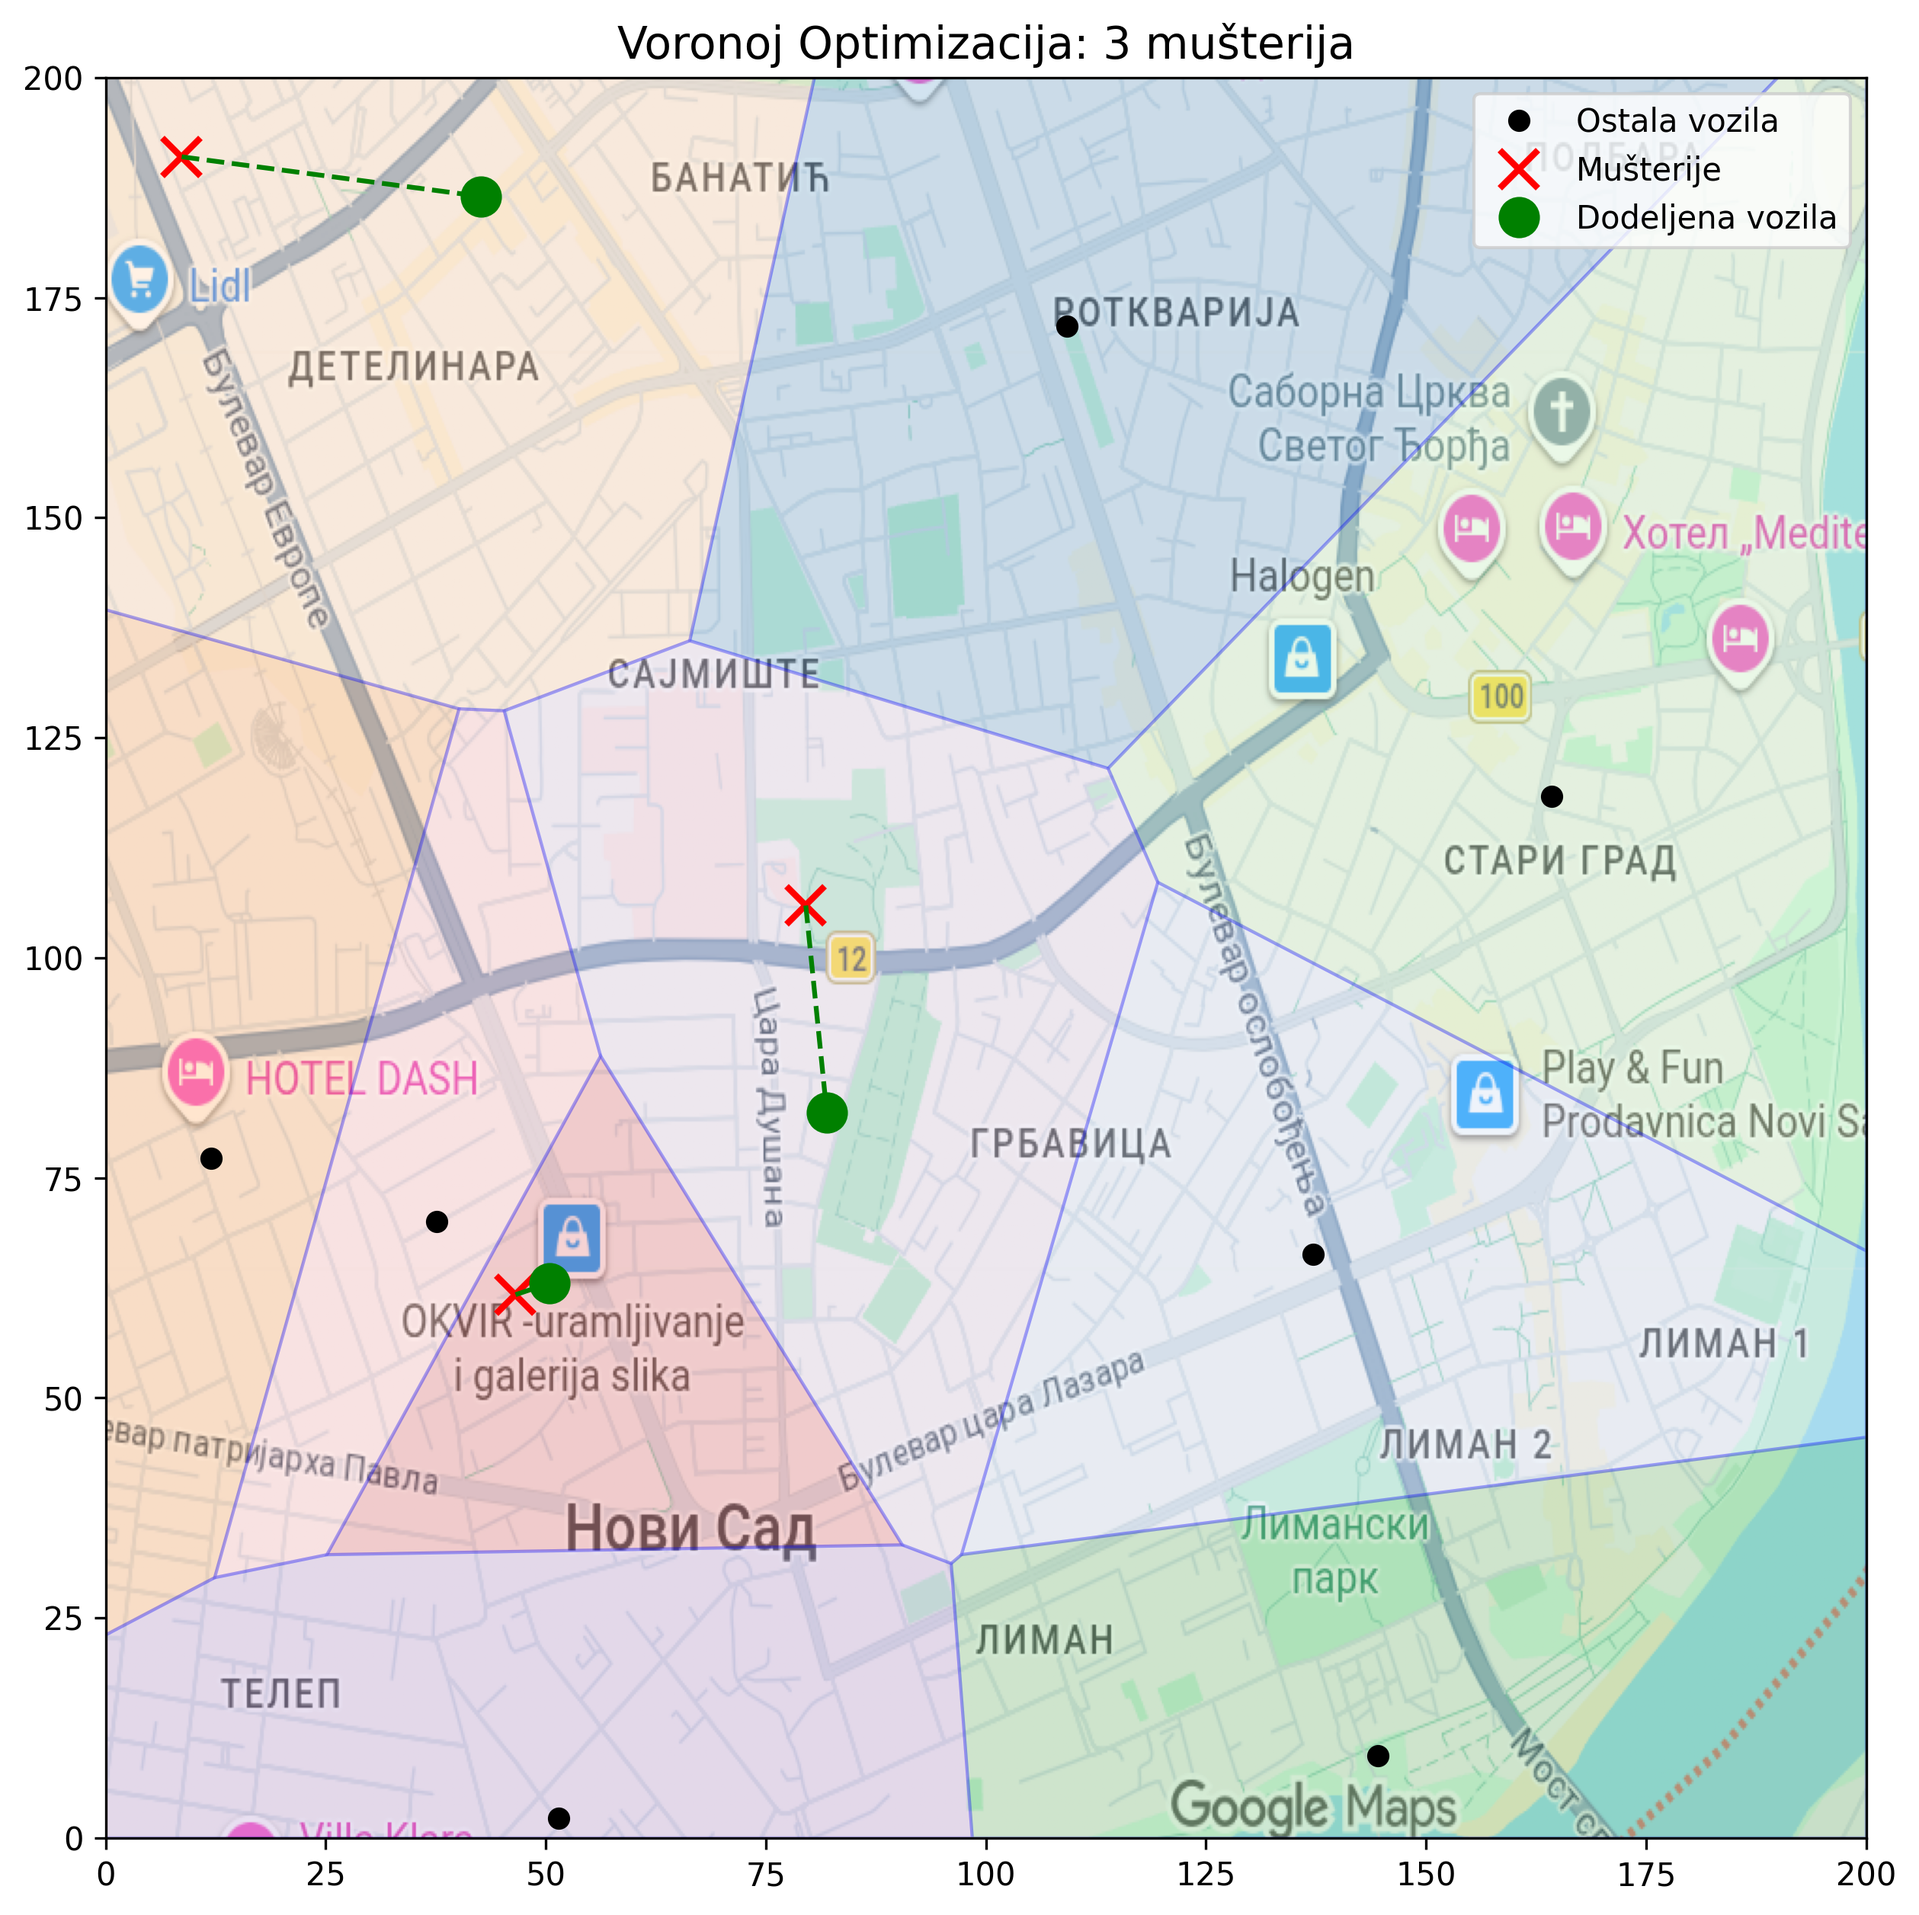
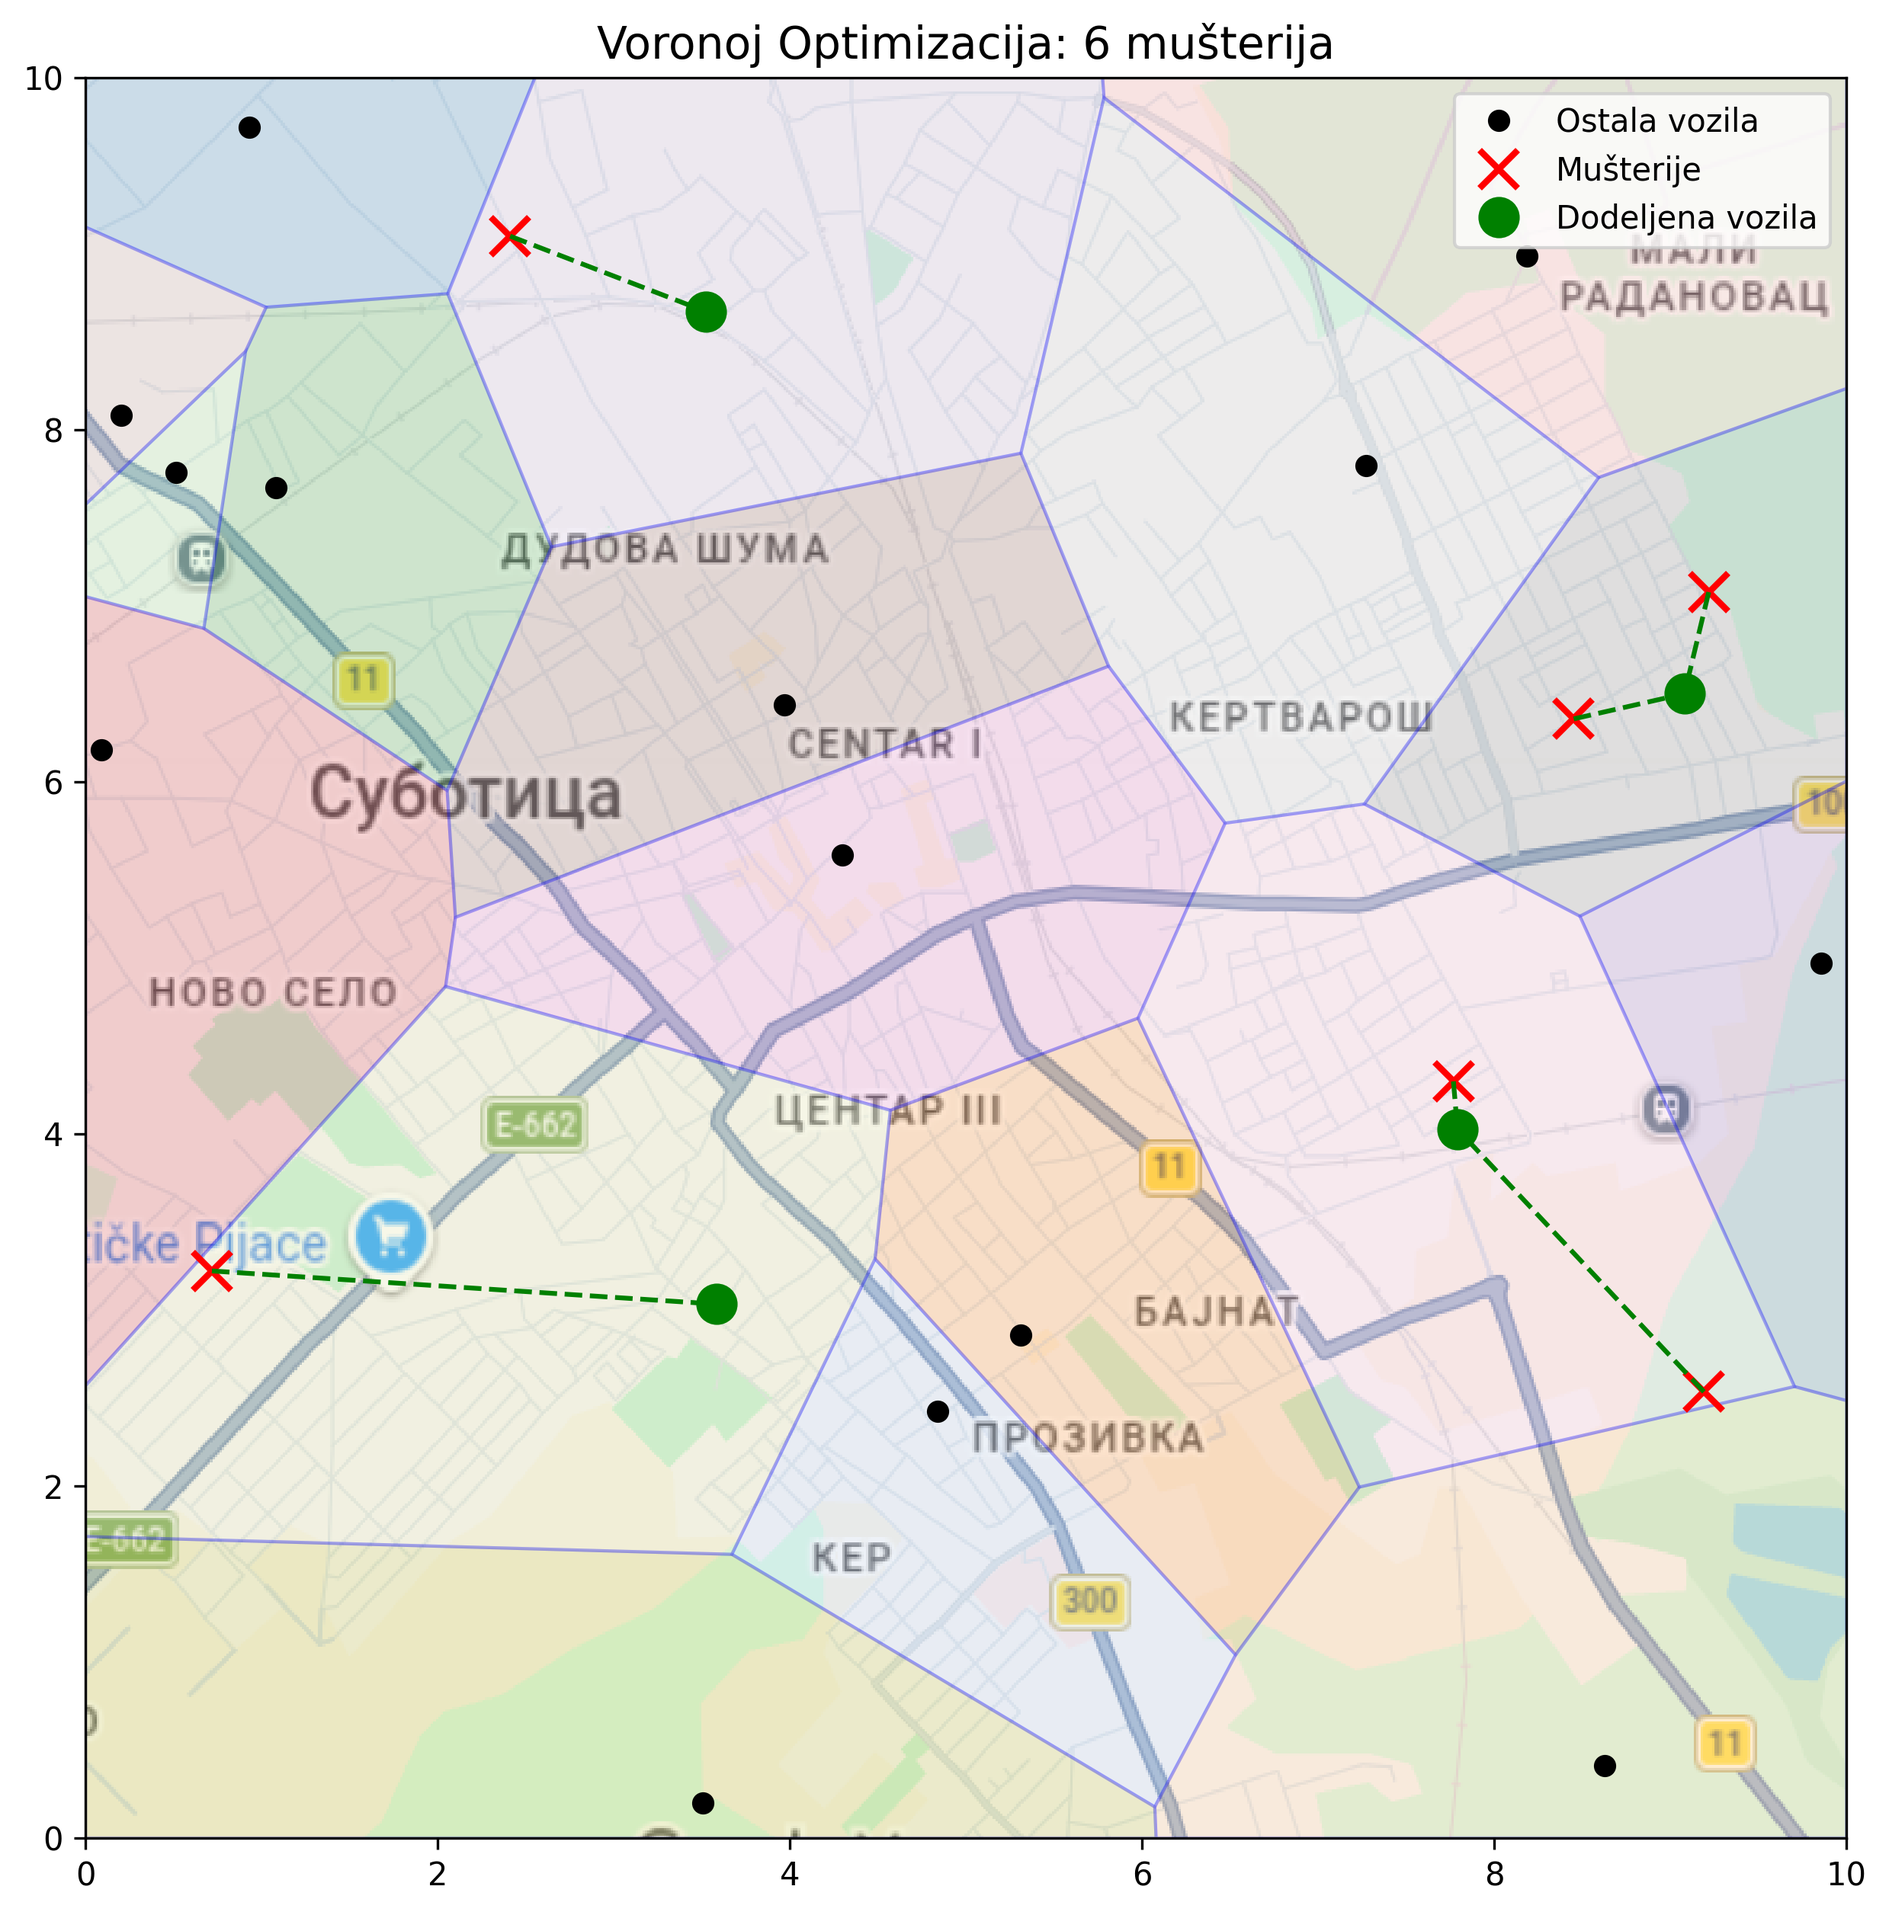
Add files via upload

diff --git a/taxi_simulation.py b/taxi_simulation.py
@@ -7,10 +7,10 @@ from matplotlib.patches import Polygon
 from scipy.spatial import Voronoi, KDTree
 
 # Constants
-GRID_SIZE = 200
-NUM_TAXIS = 10
-NUM_CUSTOMERS = 3
-SEED = 67
+GRID_SIZE = 10
+NUM_TAXIS = 18
+NUM_CUSTOMERS = 6
+SEED = 55
 
 # Data Generation
 np.random.seed(SEED)
@@ -129,10 +129,10 @@ fig, ax = plt.subplots(figsize=(10, 10))
 
 # --- Layer 1: Background Map ---
 try:
-    map_img = plt.imread('novi_sad_map.png')
+    map_img = plt.imread('subotica_map.png')
     ax.imshow(map_img, extent=[0, GRID_SIZE, 0, GRID_SIZE], alpha=0.8)
 except FileNotFoundError:
-    print("Upozorenje: 'novi_sad_map.png' nije pronađen. Koristim belu pozadinu.")
+    print("Upozorenje: 'subotica_map.png' nije pronađen. Koristim belu pozadinu.")
 
 # --- Layer 2: Voronoi Regions (Solid & Clipped) ---
 colors = plt.get_cmap('tab20').colors
